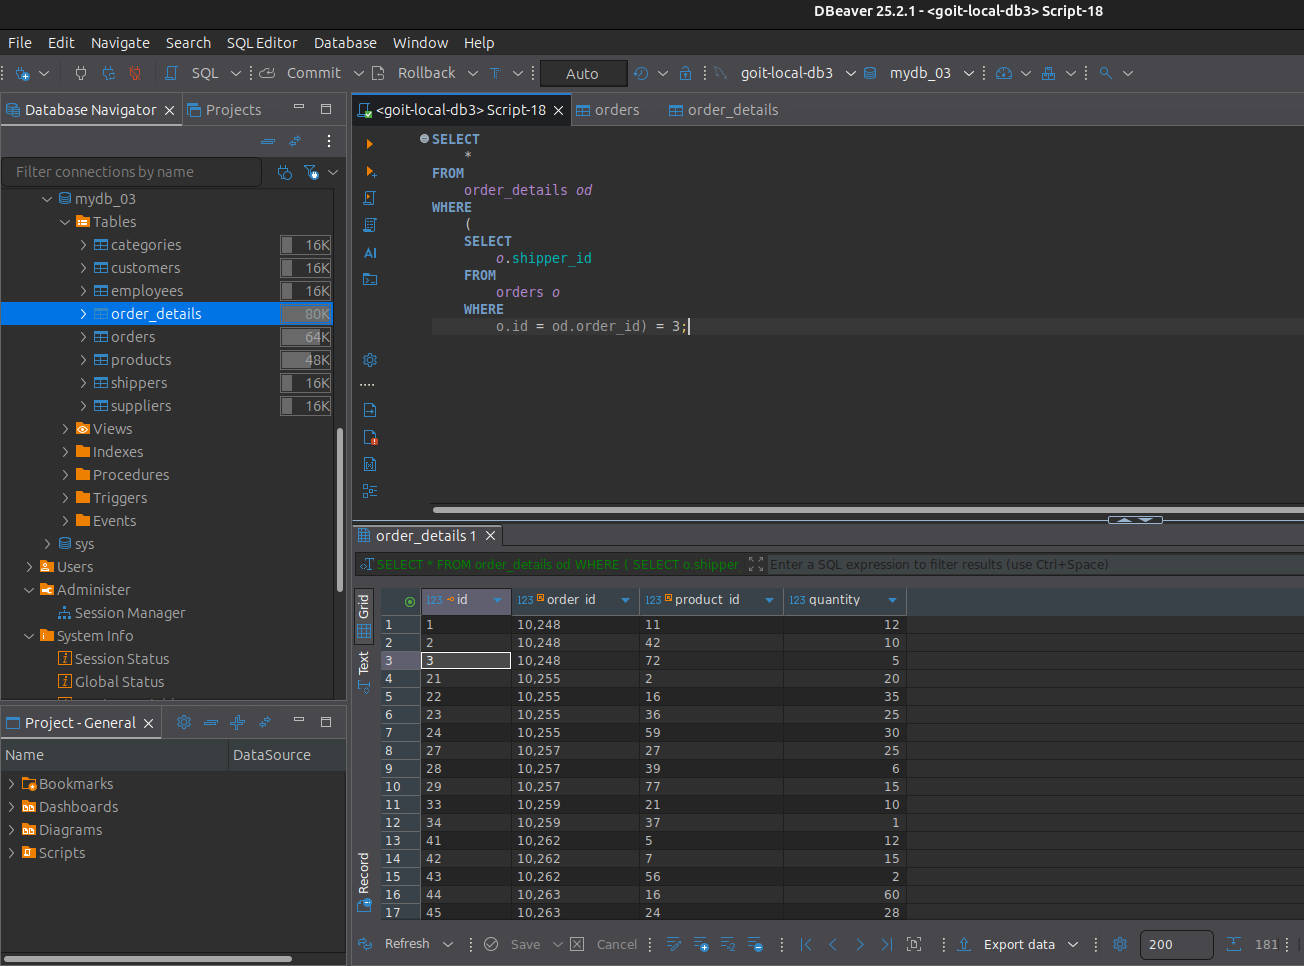
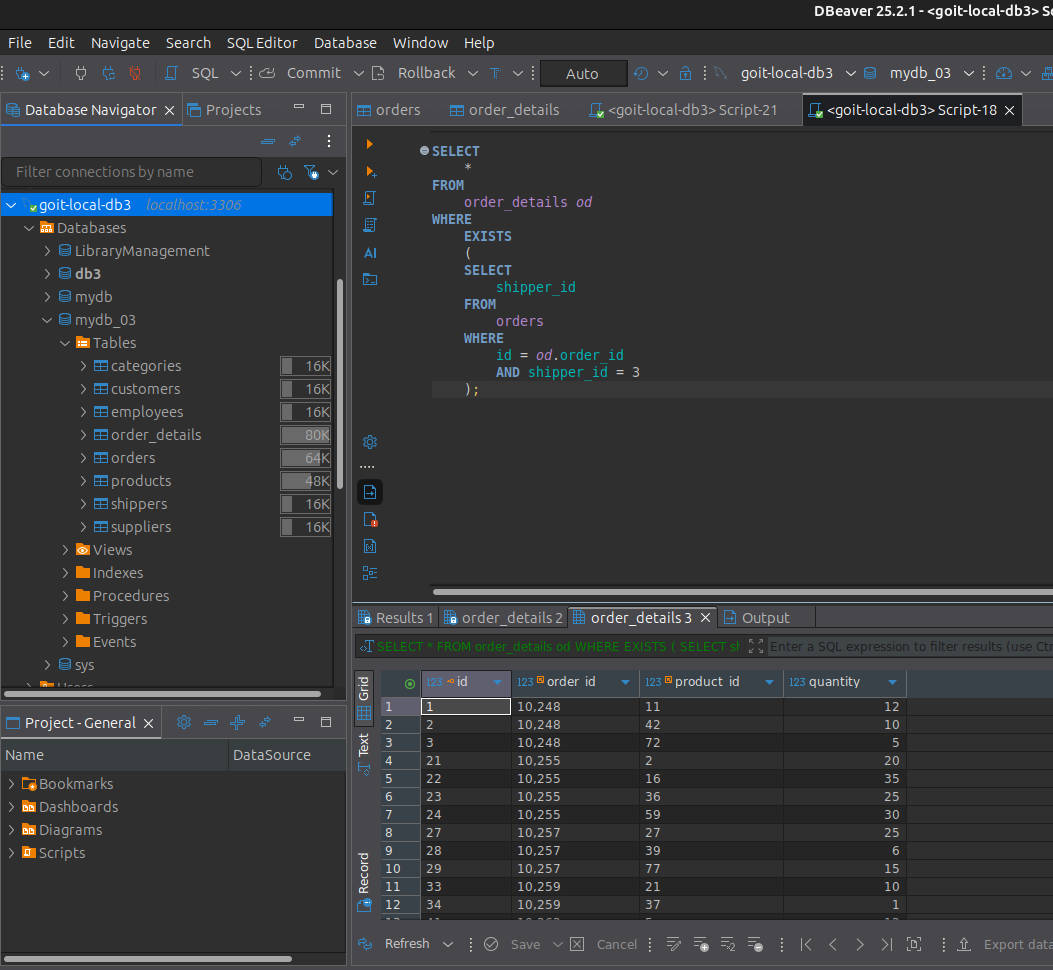
task 2; improvements SQL query and add new result

diff --git a/readme.md b/readme.md
@@ -48,13 +48,16 @@ SELECT
 FROM
 	order_details od
 WHERE
+	EXISTS
 	(
 	SELECT
-		o.shipper_id
+		shipper_id
 	FROM
-		orders o
+		orders
 	WHERE
-		o.id = od.order_id) = 3;
+		id = od.order_id
+		AND shipper_id = 3
+	);
 ```
 
 **Result:**
